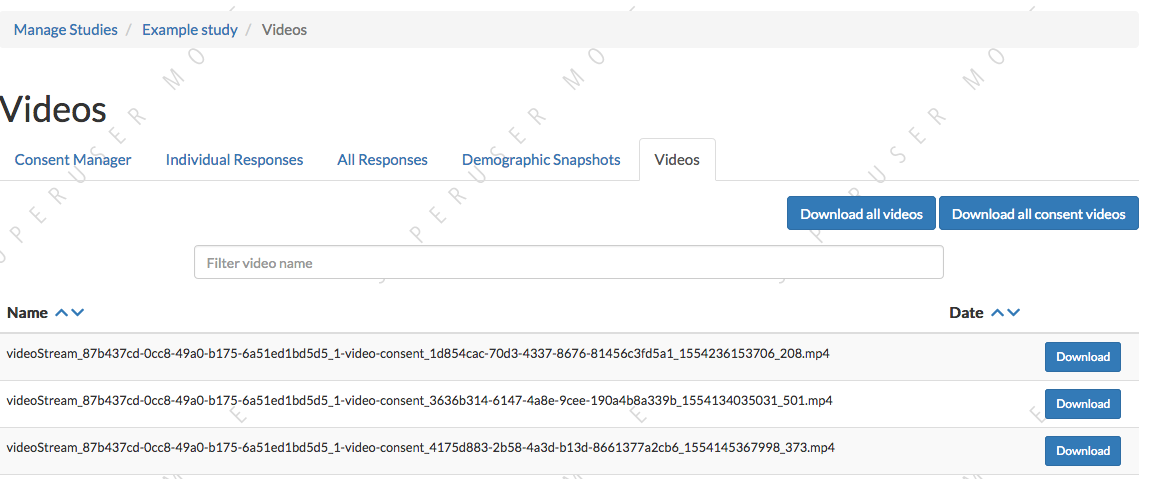
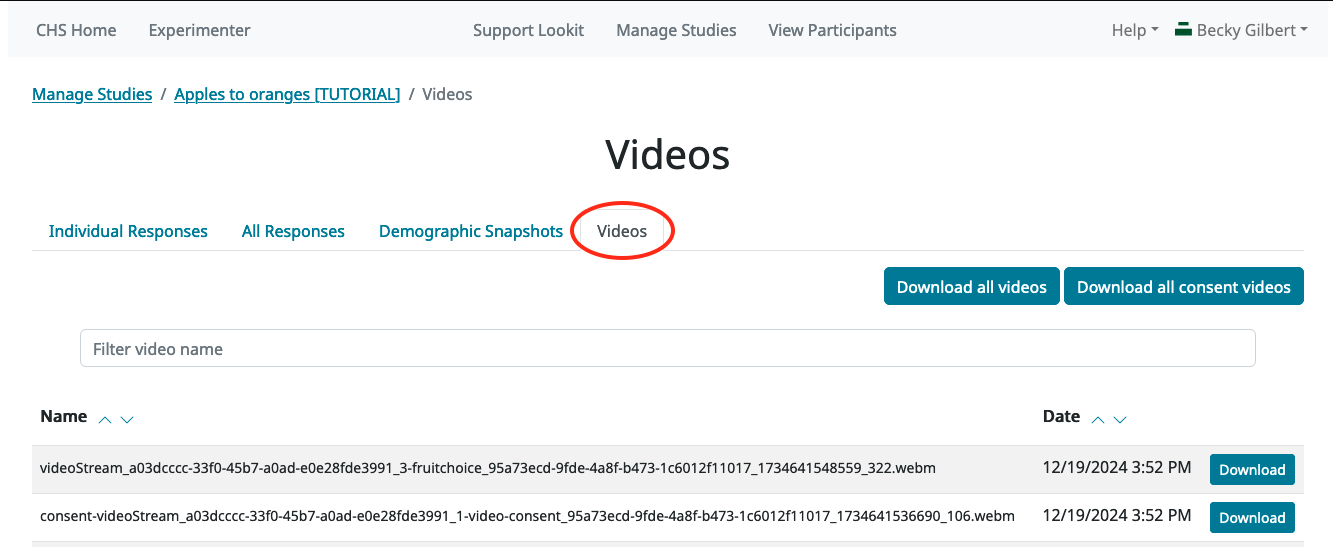
update section on downloading all data and videos

diff --git a/docs/source/tutorial-manage-data.rst b/docs/source/tutorial-manage-data.rst
@@ -184,22 +184,22 @@ Go back to the participant-facing site ("CHS Home" button) and find your study h
 Downloading response data & videos
 ------------------------------------
 
-The consent manager and "individual responses" views can be helpful to get an idea of how data collection is going, but to code your videos and analyze your data you will want to download files that you can work with using your software of choice. 
+The Individual Responses page can be helpful to get an idea of how data collection is going. But to code your videos and analyze your data you will want to download all of your files easily and in a format that you can work with using your software of choice.
 
-To download all videos, you can go to the "videos" tab and click "download all videos." A zip file will be bundled up for you to download, and you will receive a link by email in a few minutes. Try it out, and take a look at some of the video collected!
-
-.. image:: _static/img/tutorial/download_videos.png
-    :alt: Video download
-    
-Note that on this page you can also filter for specific parts of the filename, including the frame name and response ID. 
-
-Videos are named ``videoStream_<study ID>_<frameIndex>-<frame ID>_<response ID>_<timestamp>_<random digits>.mp4``, so you can use the response ID to match videos to other response data even if you only have the filename. The response data will also contain video IDs in the ``expData`` for any frames that recorded video.
-
-Under "All responses," you can download JSON or CSV files with data about all responses from this study. :ref:`You can learn more about these options here.<Response download options>`
+To download all of your (non-video) response data, go to the "**All responses**" tab (this is the page that loads when you click "Study Responses" from your study details page). Here you can download JSON or CSV files with data about all responses from this study. :ref:`You can learn more about these options here.<Response download options>`
 
 .. image:: _static/img/tutorial/all_responses.png
     :alt: All responses view
+
+To download all videos, after clicking "Study Responses" on your study details page, find the "**Videos**" tab, and click "Download all videos". A zip file will be bundled up for you to download, and you will receive a link by email in a few minutes. Try it out, and take a look at some of the video collected!
+
+.. image:: _static/img/tutorial/download_videos.png
+    :alt: Video download button
     
+Note that on this page you can also download all *consent* videos and/or individual video files. The individual files can be filtered for specific parts of the filename, including the frame name and response ID.
+
+Videos are named ``videoStream_<study ID>_<frameIndex>-<frame ID>_<response ID>_<timestamp>_<random digits>.webm``, so you can use the response ID to match videos to other response data even if you only have the filename. The response data will also contain video IDs in the ``expData`` for any frames that recorded video.
+
 Analyzing the data collected is, in general, outside the scope of this tutorial as it will vary substantially by lab/project - although we hope that you will share your scripts and processes for analyzing CHS data to help other researchers! The exercises below can be solved by manual inspection of the CSV (or JSON) data, although you are also welcome to set up a script in your language of choice to get a head start on real data processing.
 
 Exercises
